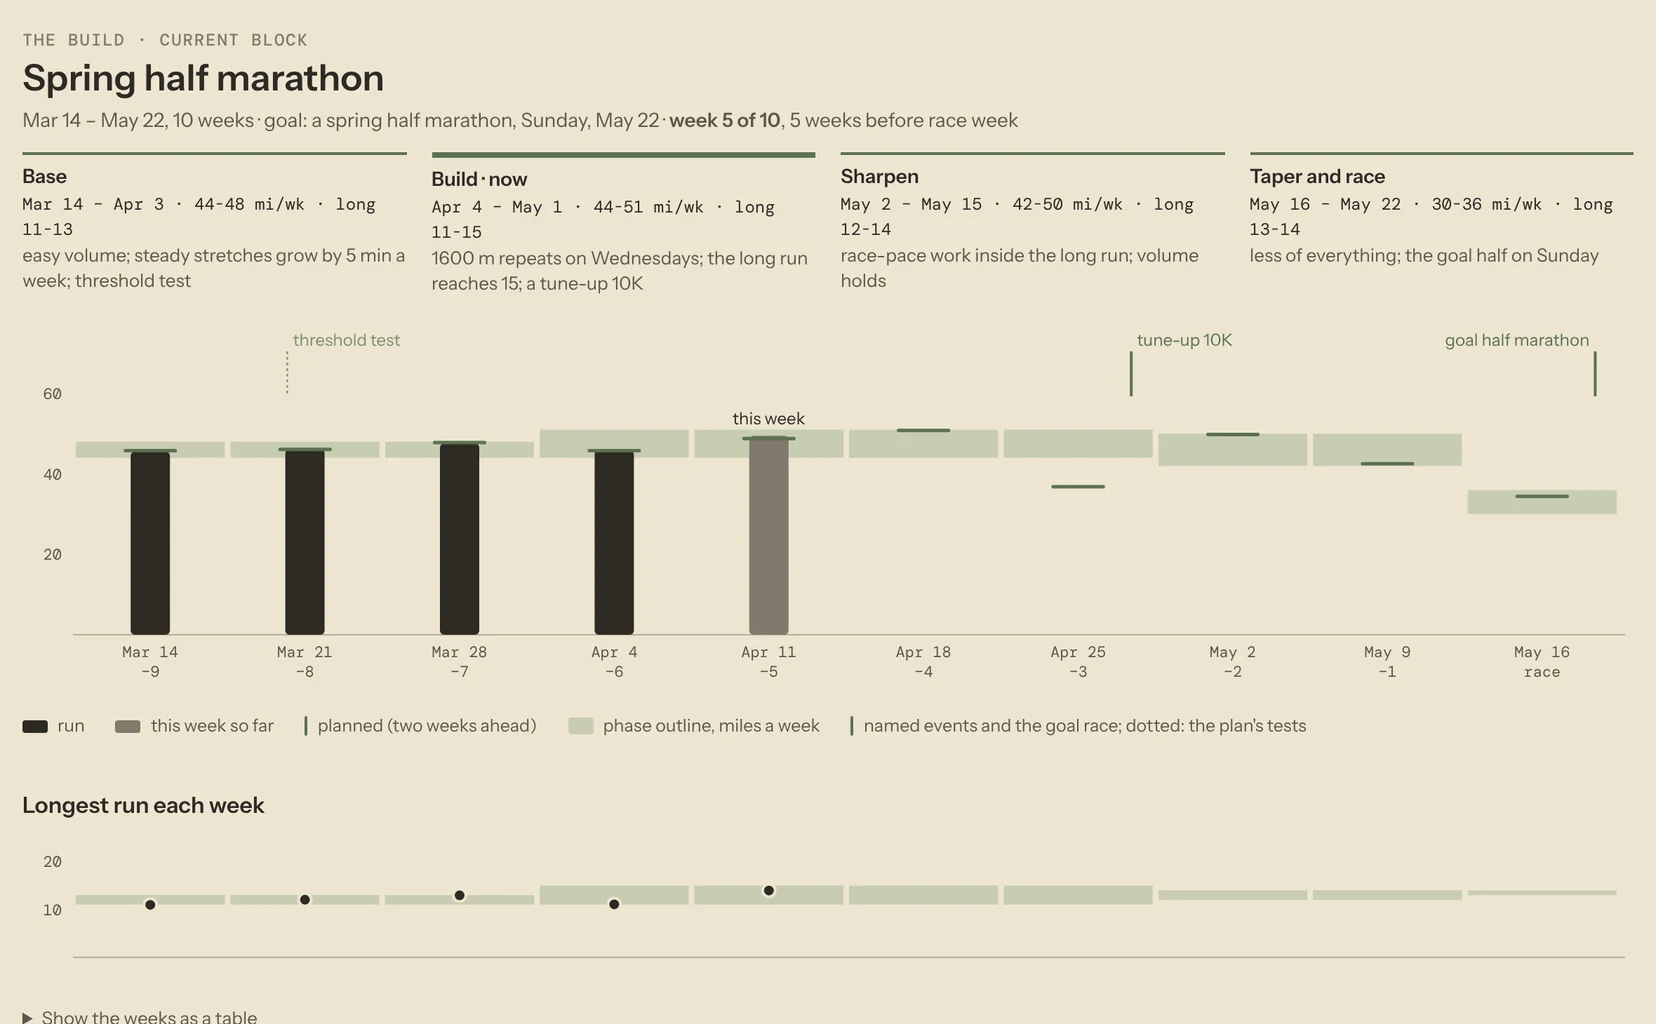
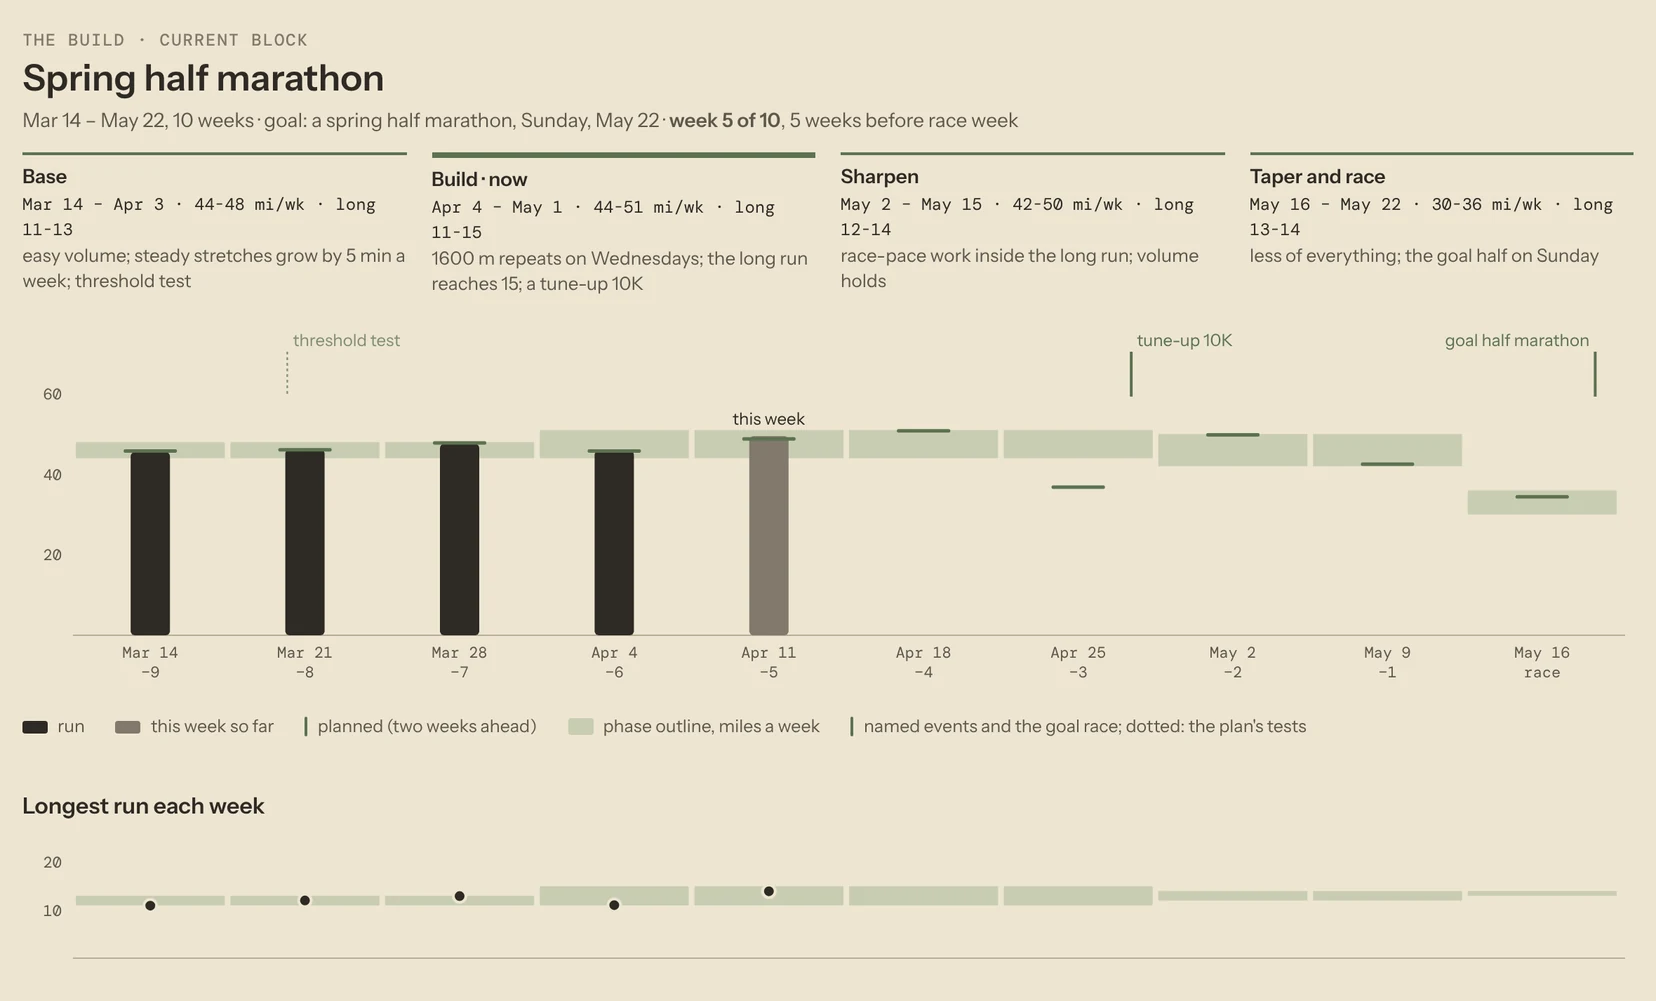
Training tab: preview of the private training system with invented data

diff --git a/src/content.js b/src/content.js
@@ -79,6 +79,65 @@ export const CONTENT = {
     records: "celebrating my personal records from both races and training",
     featured: "featuring four recent races—two road, two trail—around North Carolina",
     log: "\"all that raw land that rolls... and all that road going...\"",
+    training: "designing and learning from my bespoke training system",
+  },
+
+  // ── TRAINING (a preview of the private training system) ──────
+  // Your words. The images in public/training/ are invented data drawn by the
+  // private training site in its preview mode (running-training repo:
+  // tools/demo_data.py, checked by tools/demo_check.py); no real data. Cards
+  // render in this order; a card with two figures stacks them.
+  training: {
+    intro: "Drawing from a decade of quantitative data, this portfolio curates, synthesizes, and visually presents stories about my life as a runner. As I detail in the About section, I collaborated with Claude to produce this portfolio. I am also using Claude, almost every day, to analyze how I now run, to improve how I’m training, and to gain insight about trends in my fitness as I make measured progress toward long-term goals like the 131st Boston Marathon next spring. Whereas this public portfolio tells stories from summative data, my private training system is attuned to an accumulating dataset that knows my heart rate bands and actual lactate threshold, that includes a library of my real running routes, and that enables me to compare efficiency across specific segments of road or trail. This system far surpasses analytic insight available from Garmin Connect (the service synced to my watch), and Claude and I have also designed it to be more individually responsive than paid training platforms like Intervals or RUNALYZE. Because this private system includes all kinds of personal information (such as geographic and temporal data, performance and health metrics, and my qualitative notes), the data presented here are illustrative: what you see in this section are data from invented runs on real routes through Cambridge and Boston (I chose this area because our family lived in Cambridge for about a year). Every number, date and plan is made up for illustrative purposes; no map, date, route or measurement from the real system appears. This public running portfolio and my private training system are two complementary designs.",
+    diagram: {
+      eyebrow: "Two complementary designs",
+      title: "A public portfolio, a private system",
+      note: "No data, real or invented, flows from the training system to the portfolio; only these images do.",
+    },
+    cards: [
+      { eyebrow: "This week", title: "Did the week go as planned?", figures: [
+        { src: "/training/1-this-week.webp",
+          alt: "One invented week: plan against actual for each day, with distance bars toned by heart-rate band",
+          caption: "An invented weekly schedule, with planned runs against completed. Each bar is a day's distance, toned by the time spent in each heart-rate band; the moss tick is the planned distance. The ledger at left sums the week. One flag from analysis: Saturday spent six minutes above the easy-day ceiling on a warm morning." }
+      ] },
+      { eyebrow: "The build", title: "Where am I in the block?", figures: [
+        { src: "/training/2-the-build.webp",
+          alt: "Week 5 of a ten-week block: weekly miles against the plan and each phase's outline, with tests and races marked",
+          caption: "Week 5 of a hypothetical ten-week training block toward a spring half marathon. Weekly miles against the plan (moss ticks) and each phase's outline (pale bands), with the threshold test, a tune-up 10K and the goal race marked above; below, the longest run of each week." }
+      ] },
+      { eyebrow: "Run", title: "What happened today, against the plan's ceiling?", figures: [
+        { src: "/training/3a-run-steady.webp",
+          alt: "One steady run: a ledger of the run beside heart rate, pace and elevation over time, with the steady stretch shaded",
+          caption: "A synthetic steady Tuesday along the Charles River. The shaded stretch runs between two presses of the lap button; inside it, heart rate holds the plan's target band, under the ceiling, while pace settles near 7:00. The ledger at left summarizes the run." }
+      ] },
+      { eyebrow: "Trends", title: "Is efficiency moving?", figures: [
+        { src: "/training/4a-trends-efficiency.webp",
+          alt: "Efficiency on each of four routes over fifteen weeks, one dot per easy or long run",
+          caption: "Efficiency, speed per heartbeat, on four generic routes in and around Cambridge: one dot per easy or long run over fifteen weeks. Each route is compared only with itself, so the ground stays constant; the slow rise of about 3% is aerobic fitness. The low last dot on the Emerald Necklace is that warm Saturday." },
+        { src: "/training/4b-trends-decoupling.webp",
+          alt: "Heart-rate drift from the first to the second half of each easy run, all below five percent",
+          caption: "Decoupling: how far heart rate drifts from the first half of an easy run to the second. Long runs sit highest; none reaches the 5% line." }
+      ] },
+      { eyebrow: "Compare", title: "Same ground, two days", figures: [
+        { src: "/training/5-compare.webp",
+          alt: "Two three-lap runs at Fresh Pond six weeks apart, compared segment by segment and folded onto one lap",
+          caption: "Three laps of an invented Fresh Pond run, six weeks apart. Above, each quarter of the loop, lap by lap, compared between the two days (ink: more efficient on the later day; the first two passes fall inside the first five minutes and are left out). Below, both runs folded onto one lap, one line per lap." }
+      ] },
+      { eyebrow: "Track", title: "Is the speed coming?", figures: [
+        { src: "/training/6a-track-ladder.webp",
+          alt: "Seven sessions of 1600 meter repeats, each rep's time, faster higher",
+          caption: "Seven synthetic sessions of 1600 m repeats at Downes Field, with every rep's time (faster is higher), from just over 6:00 to about 5:50; the mean rest below." },
+        { src: "/training/6b-track-inside-reps.webp",
+          alt: "Heart rate in each quarter of each rep of the latest session, against threshold",
+          caption: "Inside each rep of the latest session: heart rate by quarter of the distance, against threshold." }
+      ] },
+    ],
+    closing: {
+      before: "All data on this Training page are synthetic and are intended as illustrative of the real system I use on a daily basis. If you would like to learn more about this system, ",
+      link: "please contact me",
+      href: "https://remikalir.com/contact/",
+      after: ".",
+    },
   },
 
   // ── LOG (microblog) ──────

diff --git a/src/App.jsx b/src/App.jsx
@@ -41,7 +41,7 @@ const SANS = "'Instrument Sans',system-ui,sans-serif";
 const MONO = "'DM Mono',monospace";
 const SERIF = "'Fraunces',serif";
 
-const TABS = ["overview", "mileage", "pace", "geography", "trails", "records", "featured", "log", "about"];
+const TABS = ["overview", "mileage", "pace", "geography", "trails", "records", "featured", "training", "log", "about"];
 
 /* ---- small helpers ---- */
 const comma = (n) => Number(n).toLocaleString("en-US");
@@ -1128,6 +1128,101 @@ function AboutTab() {
   );
 }
 
+/* ============================== TRAINING ================================ */
+/* A preview of the private training system (Remi, Nov 2026). Every figure is an
+   image of invented data, drawn by the private site in its preview mode on real
+   Cambridge and Boston routes; no data from that system reaches this portfolio.
+   Words and order from CONTENT.training; images in public/training/. On phones a
+   figure scrolls sideways (ChartScroll) instead of shrinking; a click opens it
+   full size. */
+const T_HEAD = { borderLeft: `2px solid ${C.moss}`, paddingLeft: 20, marginBottom: 18 };
+const T_EYEBROW = { fontFamily: MONO, fontSize: 11, letterSpacing: ".06em", textTransform: "uppercase", color: C.mossDeep, marginBottom: 4 };
+const T_TITLE = { fontFamily: SERIF, fontSize: 24, lineHeight: 1.15, color: C.ink };
+
+function TrainingDiagram() {
+  const box = (x, y, w, t, s) => (
+    <g key={t}>
+      <rect x={x} y={y} width={w} height={54} rx={6} fill="none" stroke={C.rule} strokeWidth={1.2} />
+      <text x={x + 14} y={y + 23} style={{ font: `500 13px ${SANS}`, fill: C.ink }}>{t}</text>
+      <text x={x + 14} y={y + 41} style={{ font: `400 12px ${SANS}`, fill: C.voice }}>{s}</text>
+    </g>
+  );
+  const arrow = (x, y) => <path d={`M${x},${y} H${x + 38}`} stroke={C.ink} strokeWidth={1.2} fill="none" markerEnd="url(#t-ar)" />;
+  const lab = { font: `400 10.5px ${MONO}`, fill: C.mossDeep, letterSpacing: ".06em" };
+  return (
+    <svg viewBox="0 0 840 250" width="100%" role="img"
+      aria-label="The public portfolio is built from a Garmin export; the private training system is built from each run's files on a home computer; only images of invented data cross from the private system to this page">
+      <defs><marker id="t-ar" viewBox="0 0 8 8" refX="7" refY="4" markerWidth="7" markerHeight="7" orient="auto"><path d="M0,0 L8,4 L0,8 z" fill={C.ink} /></marker></defs>
+      <text x={0} y={16} style={lab}>PUBLIC · THIS PORTFOLIO</text>
+      {box(0, 30, 190, "Garmin GDPR export", "a decade, on request")}{arrow(194, 57)}
+      {box(238, 30, 150, "build pipeline", "totals and stories")}{arrow(392, 57)}
+      {box(436, 30, 190, "run.remikalir.com", "summative, authored")}
+      <text x={0} y={146} style={lab}>PRIVATE · ON MY MAC</text>
+      {box(0, 160, 190, "Garmin FIT + GPX export", "after every run")}{arrow(194, 187)}
+      {box(238, 160, 150, "analysis + plan", "a local database")}{arrow(392, 187)}
+      {box(436, 160, 190, "private training site", "daily + maps, health data")}
+      <line x1={668} y1={18} x2={668} y2={232} stroke={C.leader} strokeDasharray="2 4" />
+      <rect x={700} y={96} width={9} height={9} fill={C.moss} />
+      <text x={716} y={105} style={{ font: `500 13px ${SANS}`, fill: C.ink }}>this page</text>
+      {["invented data,", "drawn by the private", "site, as images"].map((t, i) => (
+        <text key={t} x={700} y={126 + 16 * i} style={{ font: `400 12px ${SANS}`, fill: C.voice }}>{t}</text>
+      ))}
+      <path d="M628,187 C664,187 668,150 694,128" fill="none" stroke={C.moss} strokeWidth={1.5} strokeDasharray="4 3" />
+    </svg>
+  );
+}
+
+function TrainingTab() {
+  const T = CONTENT.training ?? {};
+  const ps = { fontFamily: SANS, fontSize: 15, lineHeight: 1.85, color: "rgba(43,39,35,0.82)", margin: 0, maxWidth: 720 };
+  const cap = { fontFamily: SANS, fontSize: 13.5, lineHeight: 1.65, color: "rgba(43,39,35,0.78)", marginTop: 10, maxWidth: 760 };
+  const fine = { fontFamily: SANS, fontSize: 11, letterSpacing: ".03em", color: C.faintest, lineHeight: 1.6 };
+  return (
+    <div>
+      <Card style={{ marginBottom: 20 }}>
+        <VoiceLine>{CONTENT.voiceLines?.training ?? "…in your words"}</VoiceLine>
+        {T.intro && <p style={ps}>{T.intro}</p>}
+      </Card>
+
+      {T.diagram && (
+        <Card style={{ marginBottom: 20 }}>
+          <div style={T_HEAD}><div style={T_EYEBROW}>{T.diagram.eyebrow}</div><div style={T_TITLE}>{T.diagram.title}</div></div>
+          <ChartScroll minWidth={640}><TrainingDiagram /></ChartScroll>
+          {T.diagram.note && <div style={{ ...fine, marginTop: 8 }}>{T.diagram.note}</div>}
+        </Card>
+      )}
+
+      {(T.cards ?? []).map((c) => (
+        <Card key={c.eyebrow} style={{ marginBottom: 20 }}>
+          <div style={T_HEAD}><div style={T_EYEBROW}>{c.eyebrow}</div><div style={T_TITLE}>{c.title}</div></div>
+          {c.figures.map((f, i) => (
+            <figure key={f.src} style={{ margin: i < c.figures.length - 1 ? "0 0 22px" : 0 }}>
+              <ChartScroll minWidth={760}>
+                <a href={f.src} target="_blank" rel="noopener noreferrer"
+                  style={{ display: "block", borderRadius: 10, overflow: "hidden", boxShadow: "0 0 0 1px rgba(185,174,151,0.55)" }}>
+                  <img src={f.src} alt={f.alt} loading="lazy" style={{ width: "100%", height: "auto", display: "block" }} />
+                </a>
+              </ChartScroll>
+              {f.caption && <figcaption style={cap}>{f.caption}</figcaption>}
+            </figure>
+          ))}
+        </Card>
+      ))}
+
+      {T.closing && (
+        <Card>
+          <p style={{ ...ps, fontSize: 14 }}>
+            {T.closing.before}
+            <a href={T.closing.href} target="_blank" rel="noopener noreferrer"
+              style={{ color: C.mossDeep, textDecoration: "none", borderBottom: `1px solid ${C.moss}` }}>{T.closing.link}</a>
+            {T.closing.after}
+          </p>
+        </Card>
+      )}
+    </div>
+  );
+}
+
 /* ============================== LOG ===================================== */
 /* Authored microblog from CONTENT.microblog, newest first, on a moss spine.
    Body is plain prose — inline pace/HR are the runner's notes, not pipeline
@@ -1207,6 +1302,7 @@ export default function RunningPortfolio() {
           {tab === "trails" && <TrailsAtlas />}
           {tab === "records" && <Records />}
           {tab === "featured" && <Featured />}
+          {tab === "training" && <TrainingTab />}
           {tab === "log" && <LogTab />}
           {tab === "about" && <AboutTab />}
         </main>
